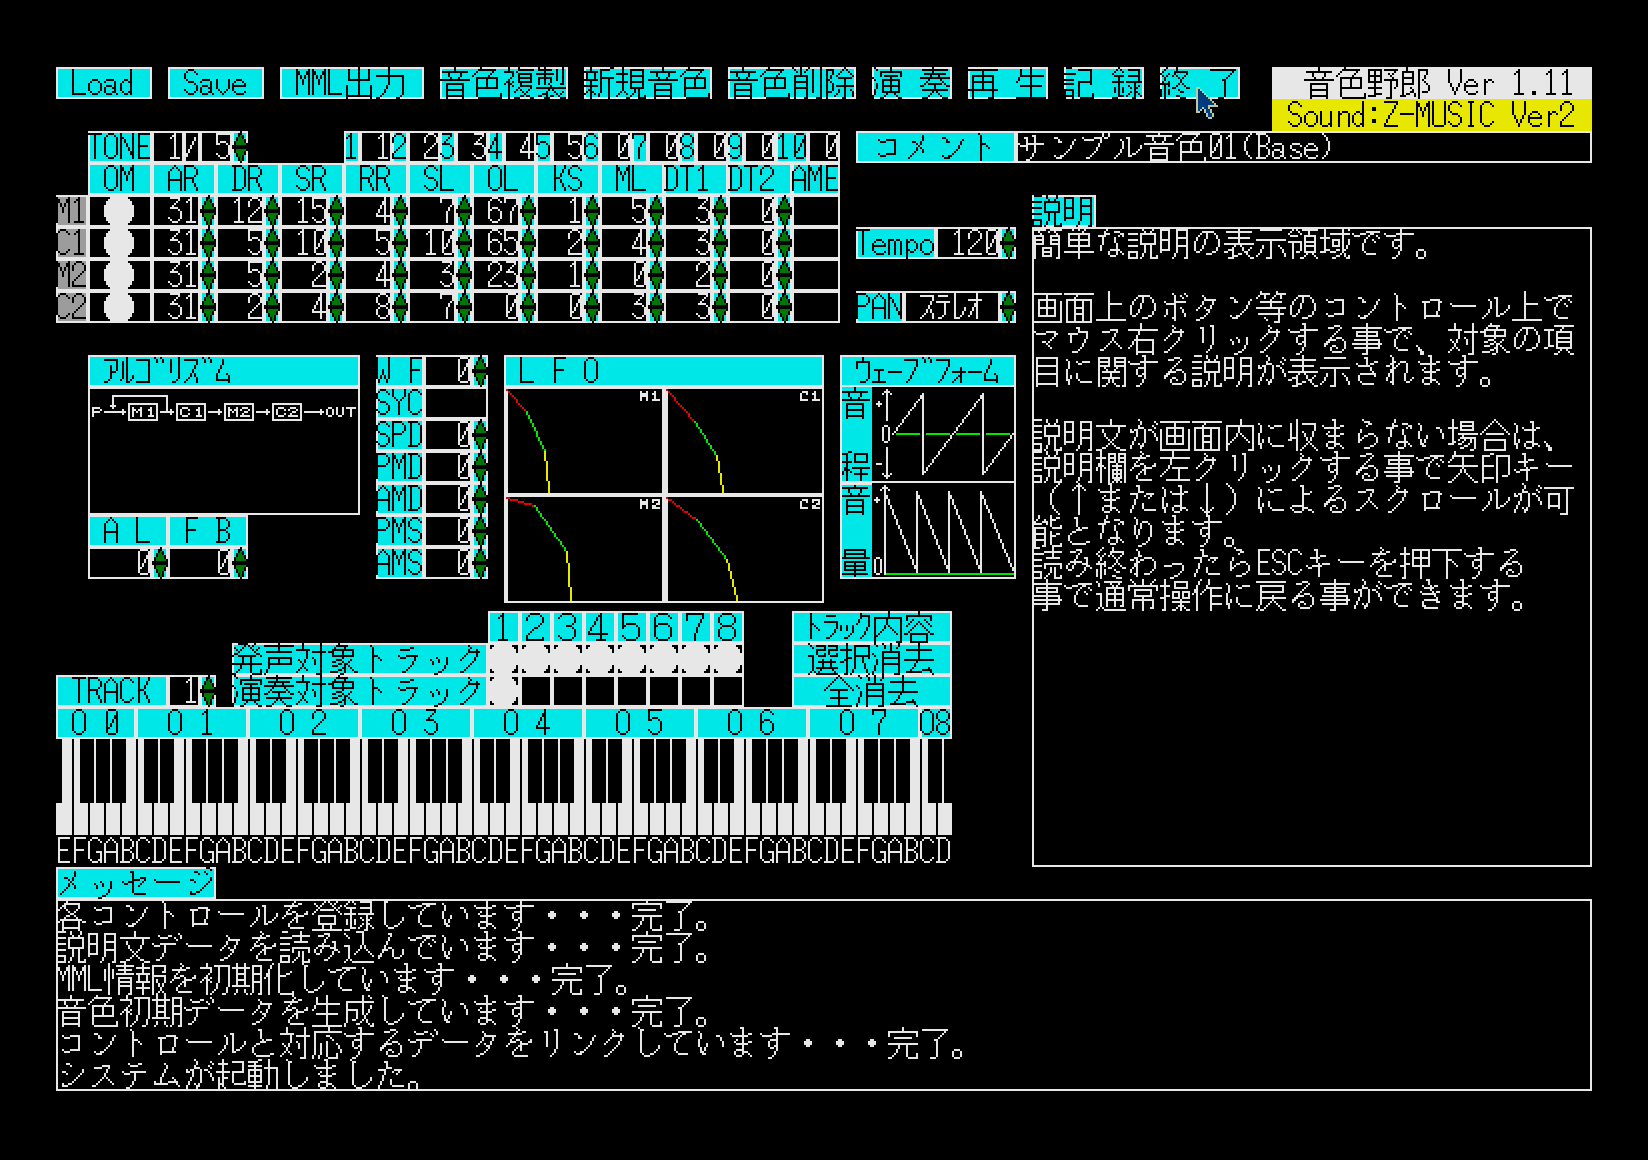
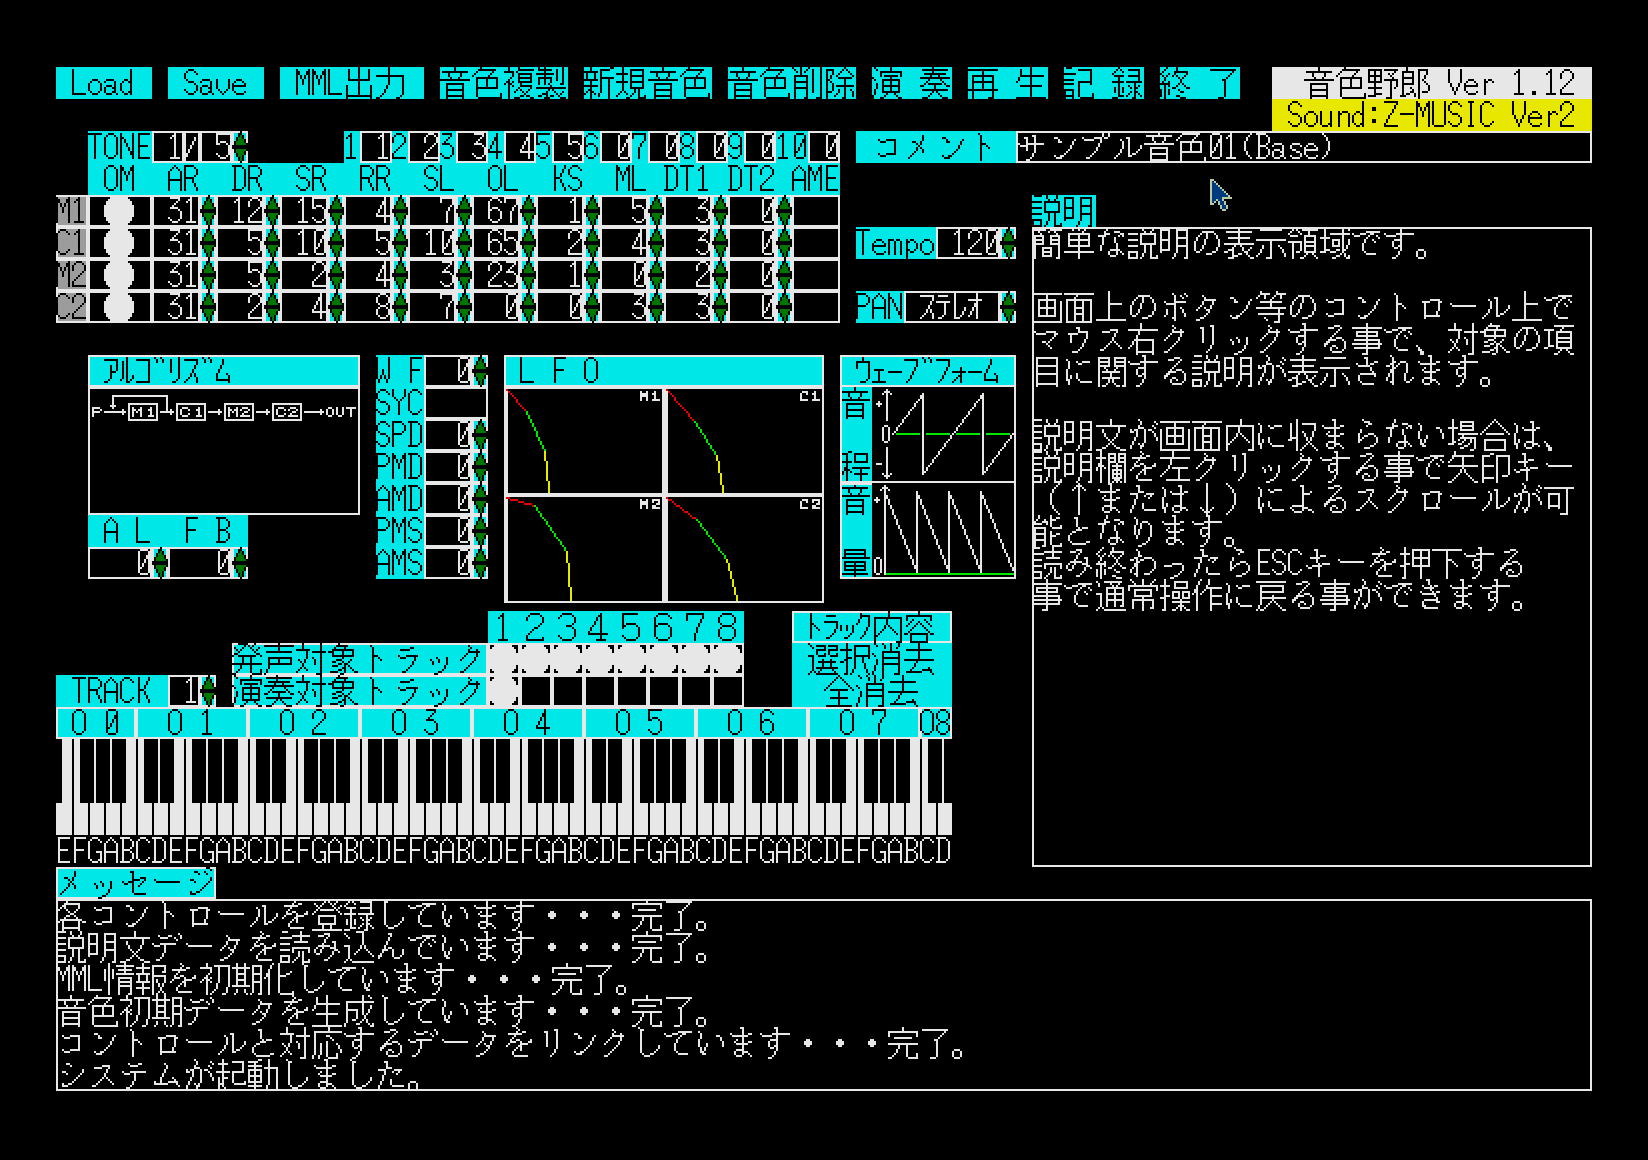
Ver1.12
Ver1.12

diff --git a/Manual/Manual.md b/Manual/Manual.md
@@ -1,8 +1,8 @@
-# 音色野郎　操作説明　(Version 1.11)
+# 音色野郎　操作説明　(Version 1.12)
 ***
 
 ## 目次
-- [音色野郎　操作説明　(Version 1.11)](#音色野郎操作説明version-111)
+- [音色野郎　操作説明　(Version 1.12)](#音色野郎操作説明version-112)
   - [目次](#目次)
   - [事前に準備が必要なソフトウェア](#事前に準備が必要なソフトウェア)
   - [始動後の画面](#始動後の画面)
